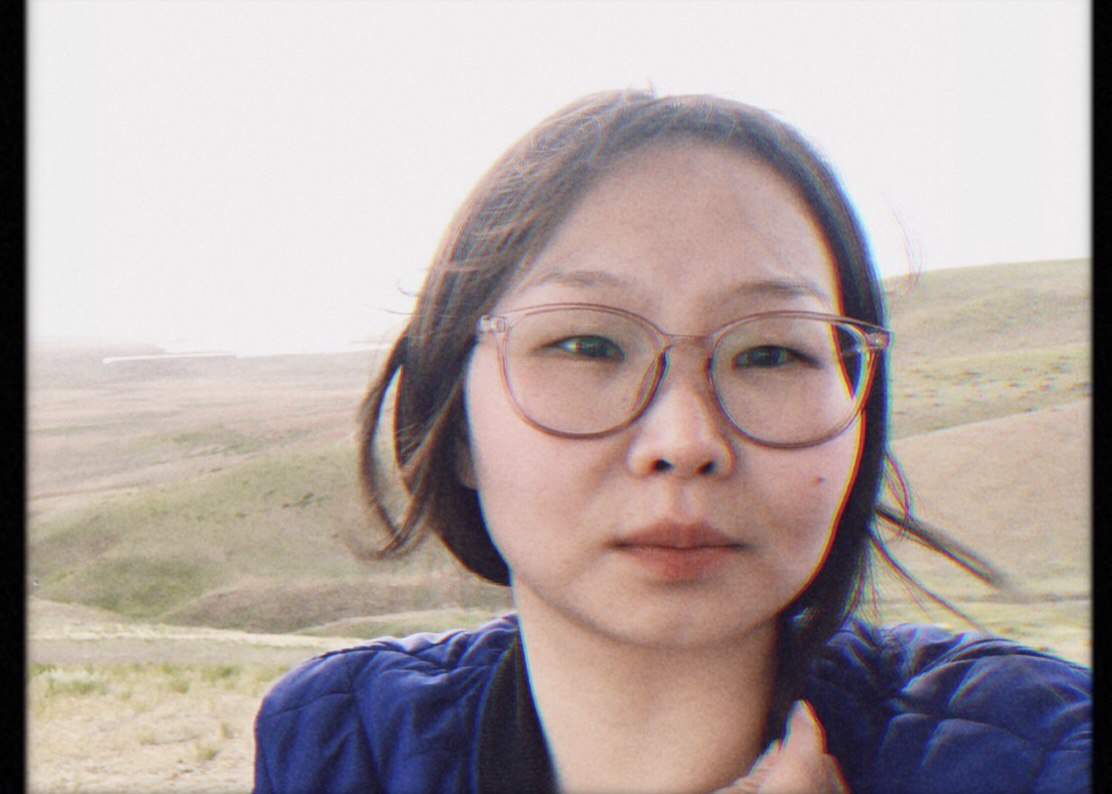
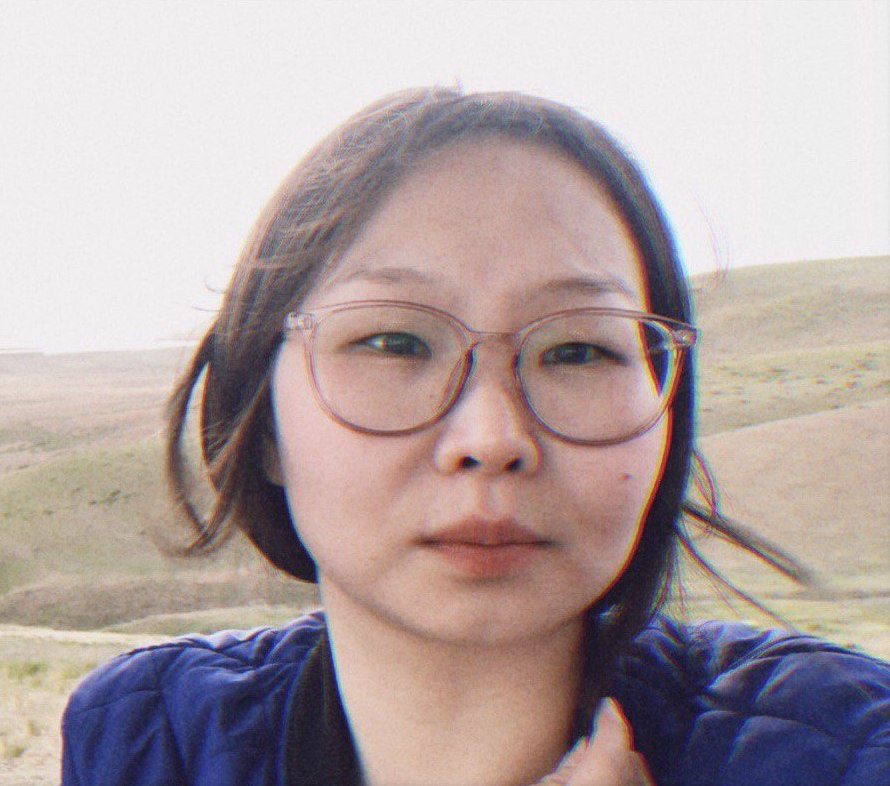
feat: add contacts section, cropped photo

diff --git a/index.html b/index.html
@@ -12,19 +12,38 @@
 		<header class="header">
 			<nav class="header__nav">
 				<ul class="header__list">
-					<li class="header__item"><a class="header__link" href="">Contacts</a></li>
-					<li class="header__item"><a class="header__link" href="">About me</a></li>
-					<li class="header__item"><a class="header__link" href="">Skills</a></li>
-					<li class="header__item"><a class="header__link" href="">Code example</a></li>
-					<li class="header__item"><a class="header__link" href="">Projects</a></li>
-					<li class="header__item"><a class="header__link" href="">Work experience</a></li>
-					<li class="header__item"><a class="header__link" href="">Education</a></li>
-					<li class="header__item"><a class="header__link" href="">Languages</a></li>
+					<li class="header__item"><a class="header__link" href="#contacts">Contacts</a></li>
+					<li class="header__item"><a class="header__link" href="#about-me">About me</a></li>
+					<li class="header__item"><a class="header__link" href="#skills">Skills</a></li>
+					<li class="header__item"><a class="header__link" href="#code">Code example</a></li>
+					<li class="header__item"><a class="header__link" href="#projects">Projects</a></li>
+					<li class="header__item"><a class="header__link" href="#work-experience">Work experience</a></li>
+					<li class="header__item"><a class="header__link" href="#education">Education</a></li>
+					<li class="header__item"><a class="header__link" href="#languages">Languages</a></li>
 				</ul>
 			</nav>
 		</header>
+
+		<main class="main">
+			<div class="left-side">
+				<div class="photo-container">
+					<img class="photo" src="./assets/img/photo.jpg" alt="Asya Kandan photo" width="350" height="300">
+				</div>
+				<section class="contacts" id="contacts">
+					<h2 class="h2 contacts__header">Contacts</h2>
+					<ul class="contacts__list">
+						<li class="contacts__item"><a class="contacts__link" href="https://www.google.com/maps/place/%D0%AD%D0%BB%D0%B8%D1%81%D1%82%D0%B0,+%D0%A0%D0%B5%D1%81%D0%BF.+%D0%9A%D0%B0%D0%BB%D0%BC%D1%8B%D0%BA%D0%B8%D1%8F/@46.328817,44.2708645,12z/data=!3m1!4b1!4m5!3m4!1s0x4101d18d723fcdcf:0xc89feef7b5786df5!8m2!3d46.3154883!4d44.2794011?hl=ru" target="_blank">Elista, Russia</a></li>
+						<li class="contacts__item"><a class="contacts__link" href="mailto:asyakandan@gmail.com">asyakandan@gmail.com</a></li>
+						<li class="contacts__item">@asyakandan</li>
+					</ul>
+				</section>
+				
+			</div>
+		</main>
+
 	</div>
 
 	
+
 </body>
 </html>
